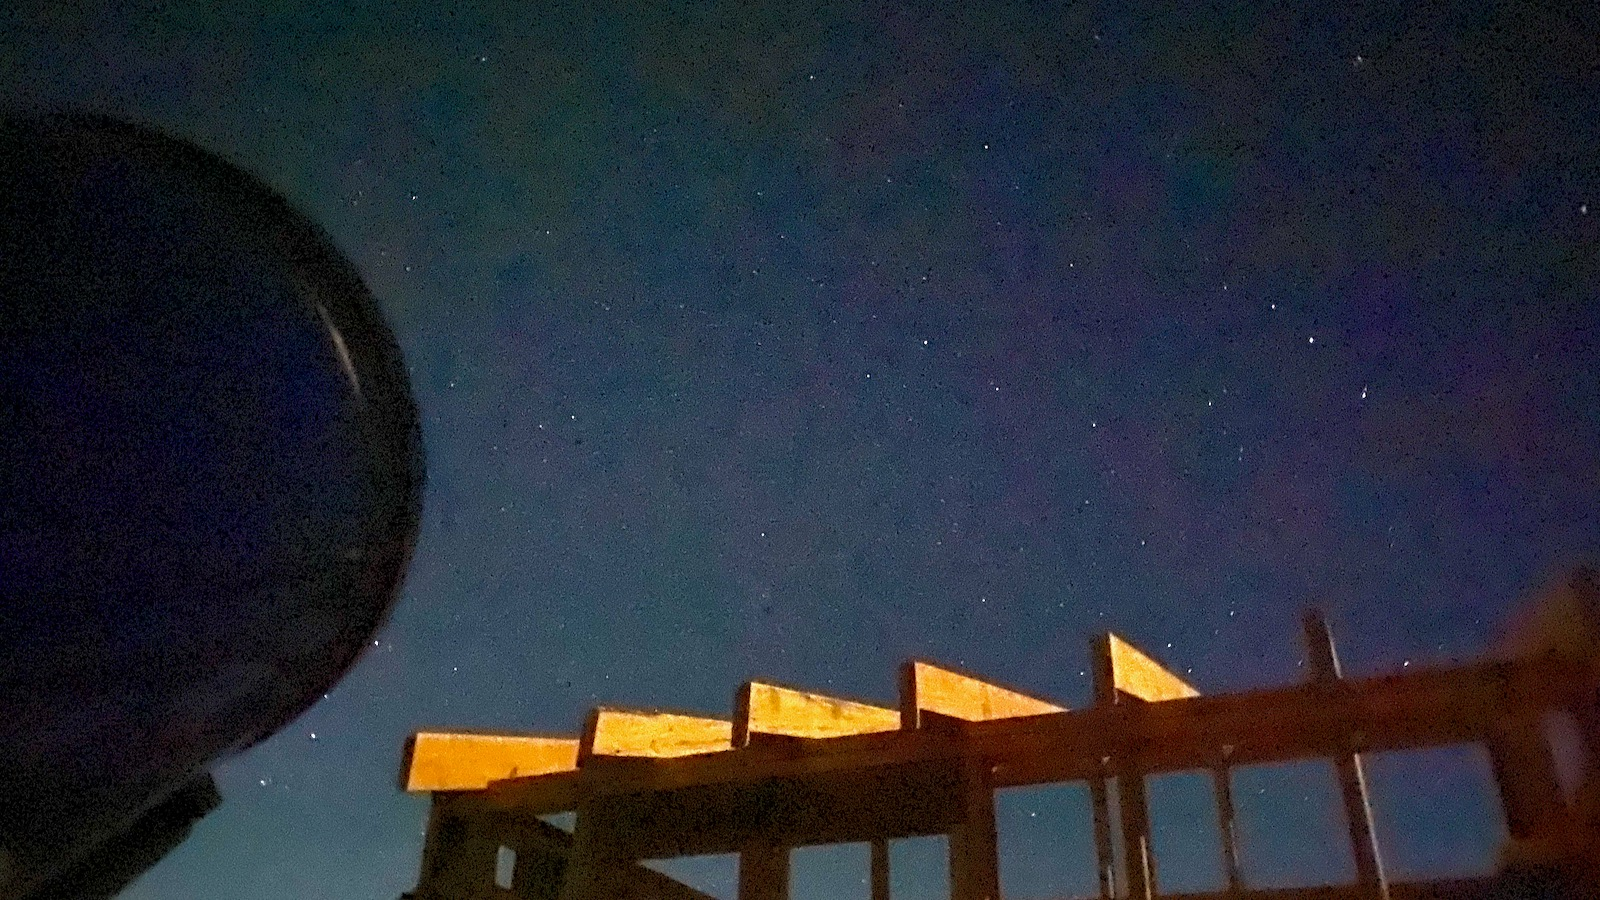
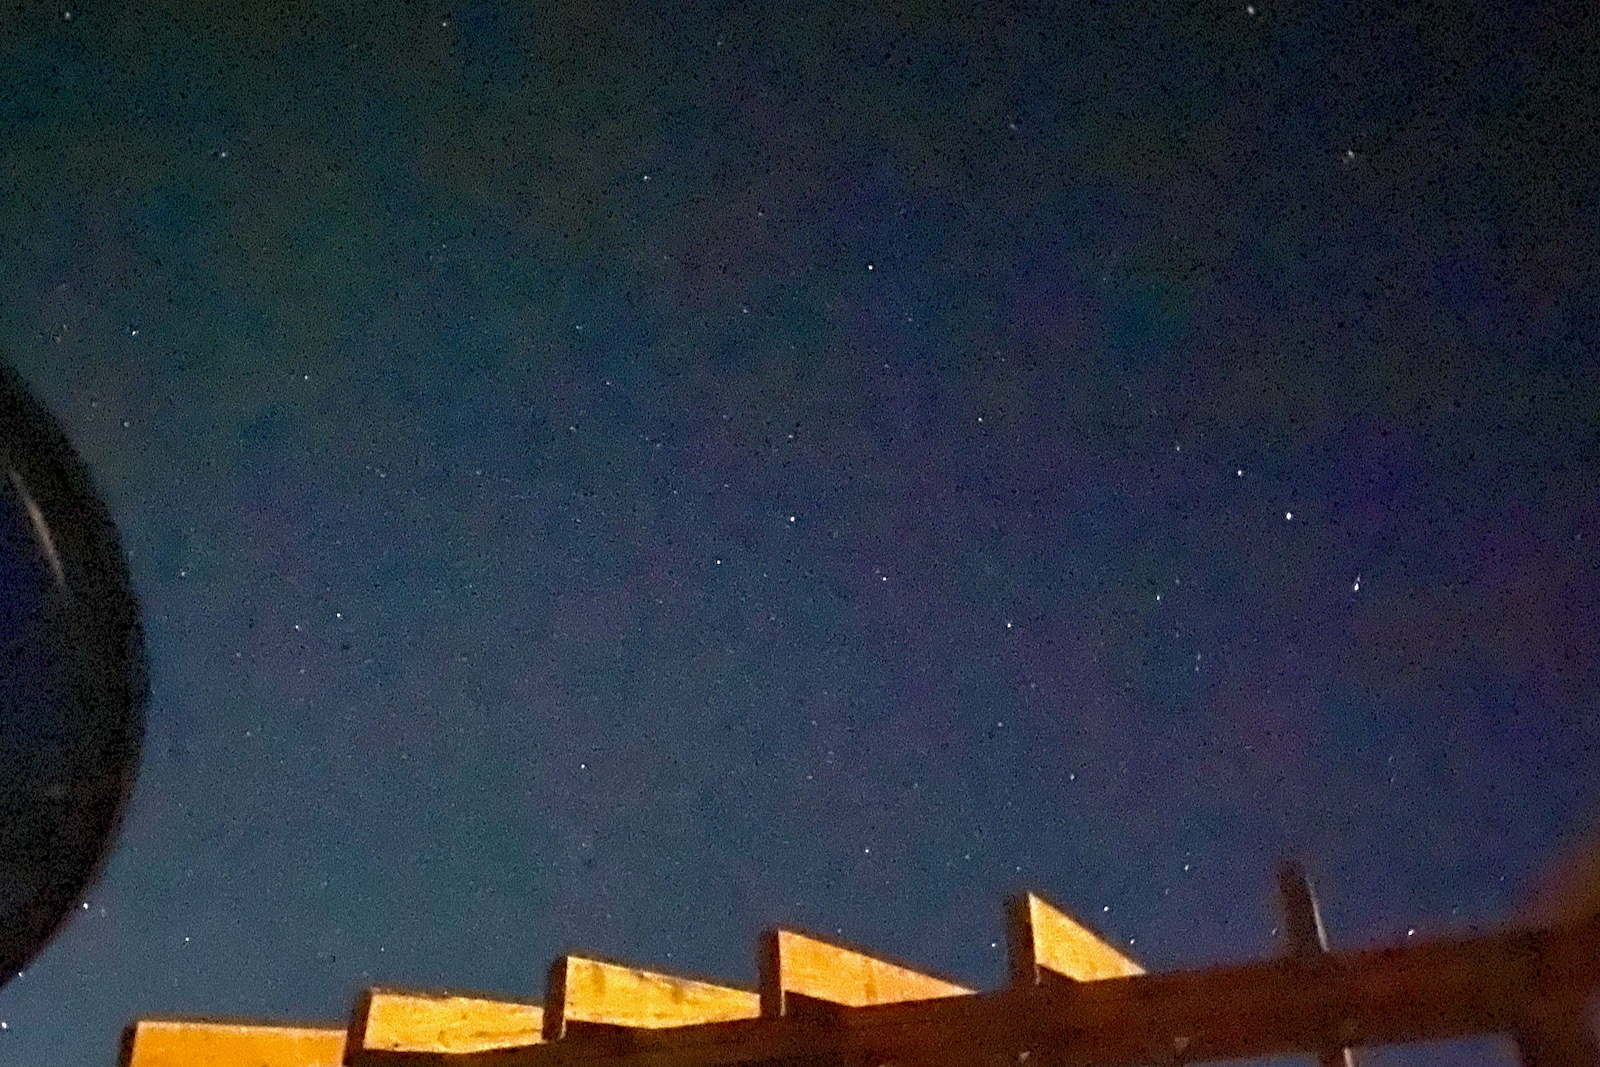
Recropped Ursa Minor shot.

diff --git a/index.md b/index.md
@@ -9,8 +9,8 @@
 
 ## Dome and Control Room
 
-The control room for the observatory is on track to be usable (but not finished out) in time for the beginning of Term 5 (March 14, 2022) when the first one-term observational astronomy course
-is beginning. Below are Polaris and Ursa Minor appearing over the rafters of the control room taken from a low vantage point just to the right of the telescope:
+The control room for the observatory is on track to be usable (but not finished out) in time for the beginning of Term 5 (March 14, 2022) when the first observational astronomy course
+begins. Below is Polaris (centered) and the rest of Ursa Minor (stretching to the right) over the rafters of the control room:
 
 ![Control Room Framing Begun](./photos/UrsaMinorOverRafters.jpeg)
 
@@ -36,4 +36,4 @@ Field power for the telescope, its camera, and the computers that control them w
 
 ## Program
 
-With the clear, dark skies and high elevation at Deep springs and a modern CMOS camera, students will be able to use the dome, telescope, and control room to do a wide variety of pedagogically and scientifically valuable projects. The first observational astronomy class will be in Term 5 (mid-March to beginning of May) of 2022.
+With the clear, dark skies and high elevation at Deep springs and a modern CMOS camera, students will be able to use the dome, telescope, and control room to do a wide variety of pedagogically and scientifically valuable projects.
